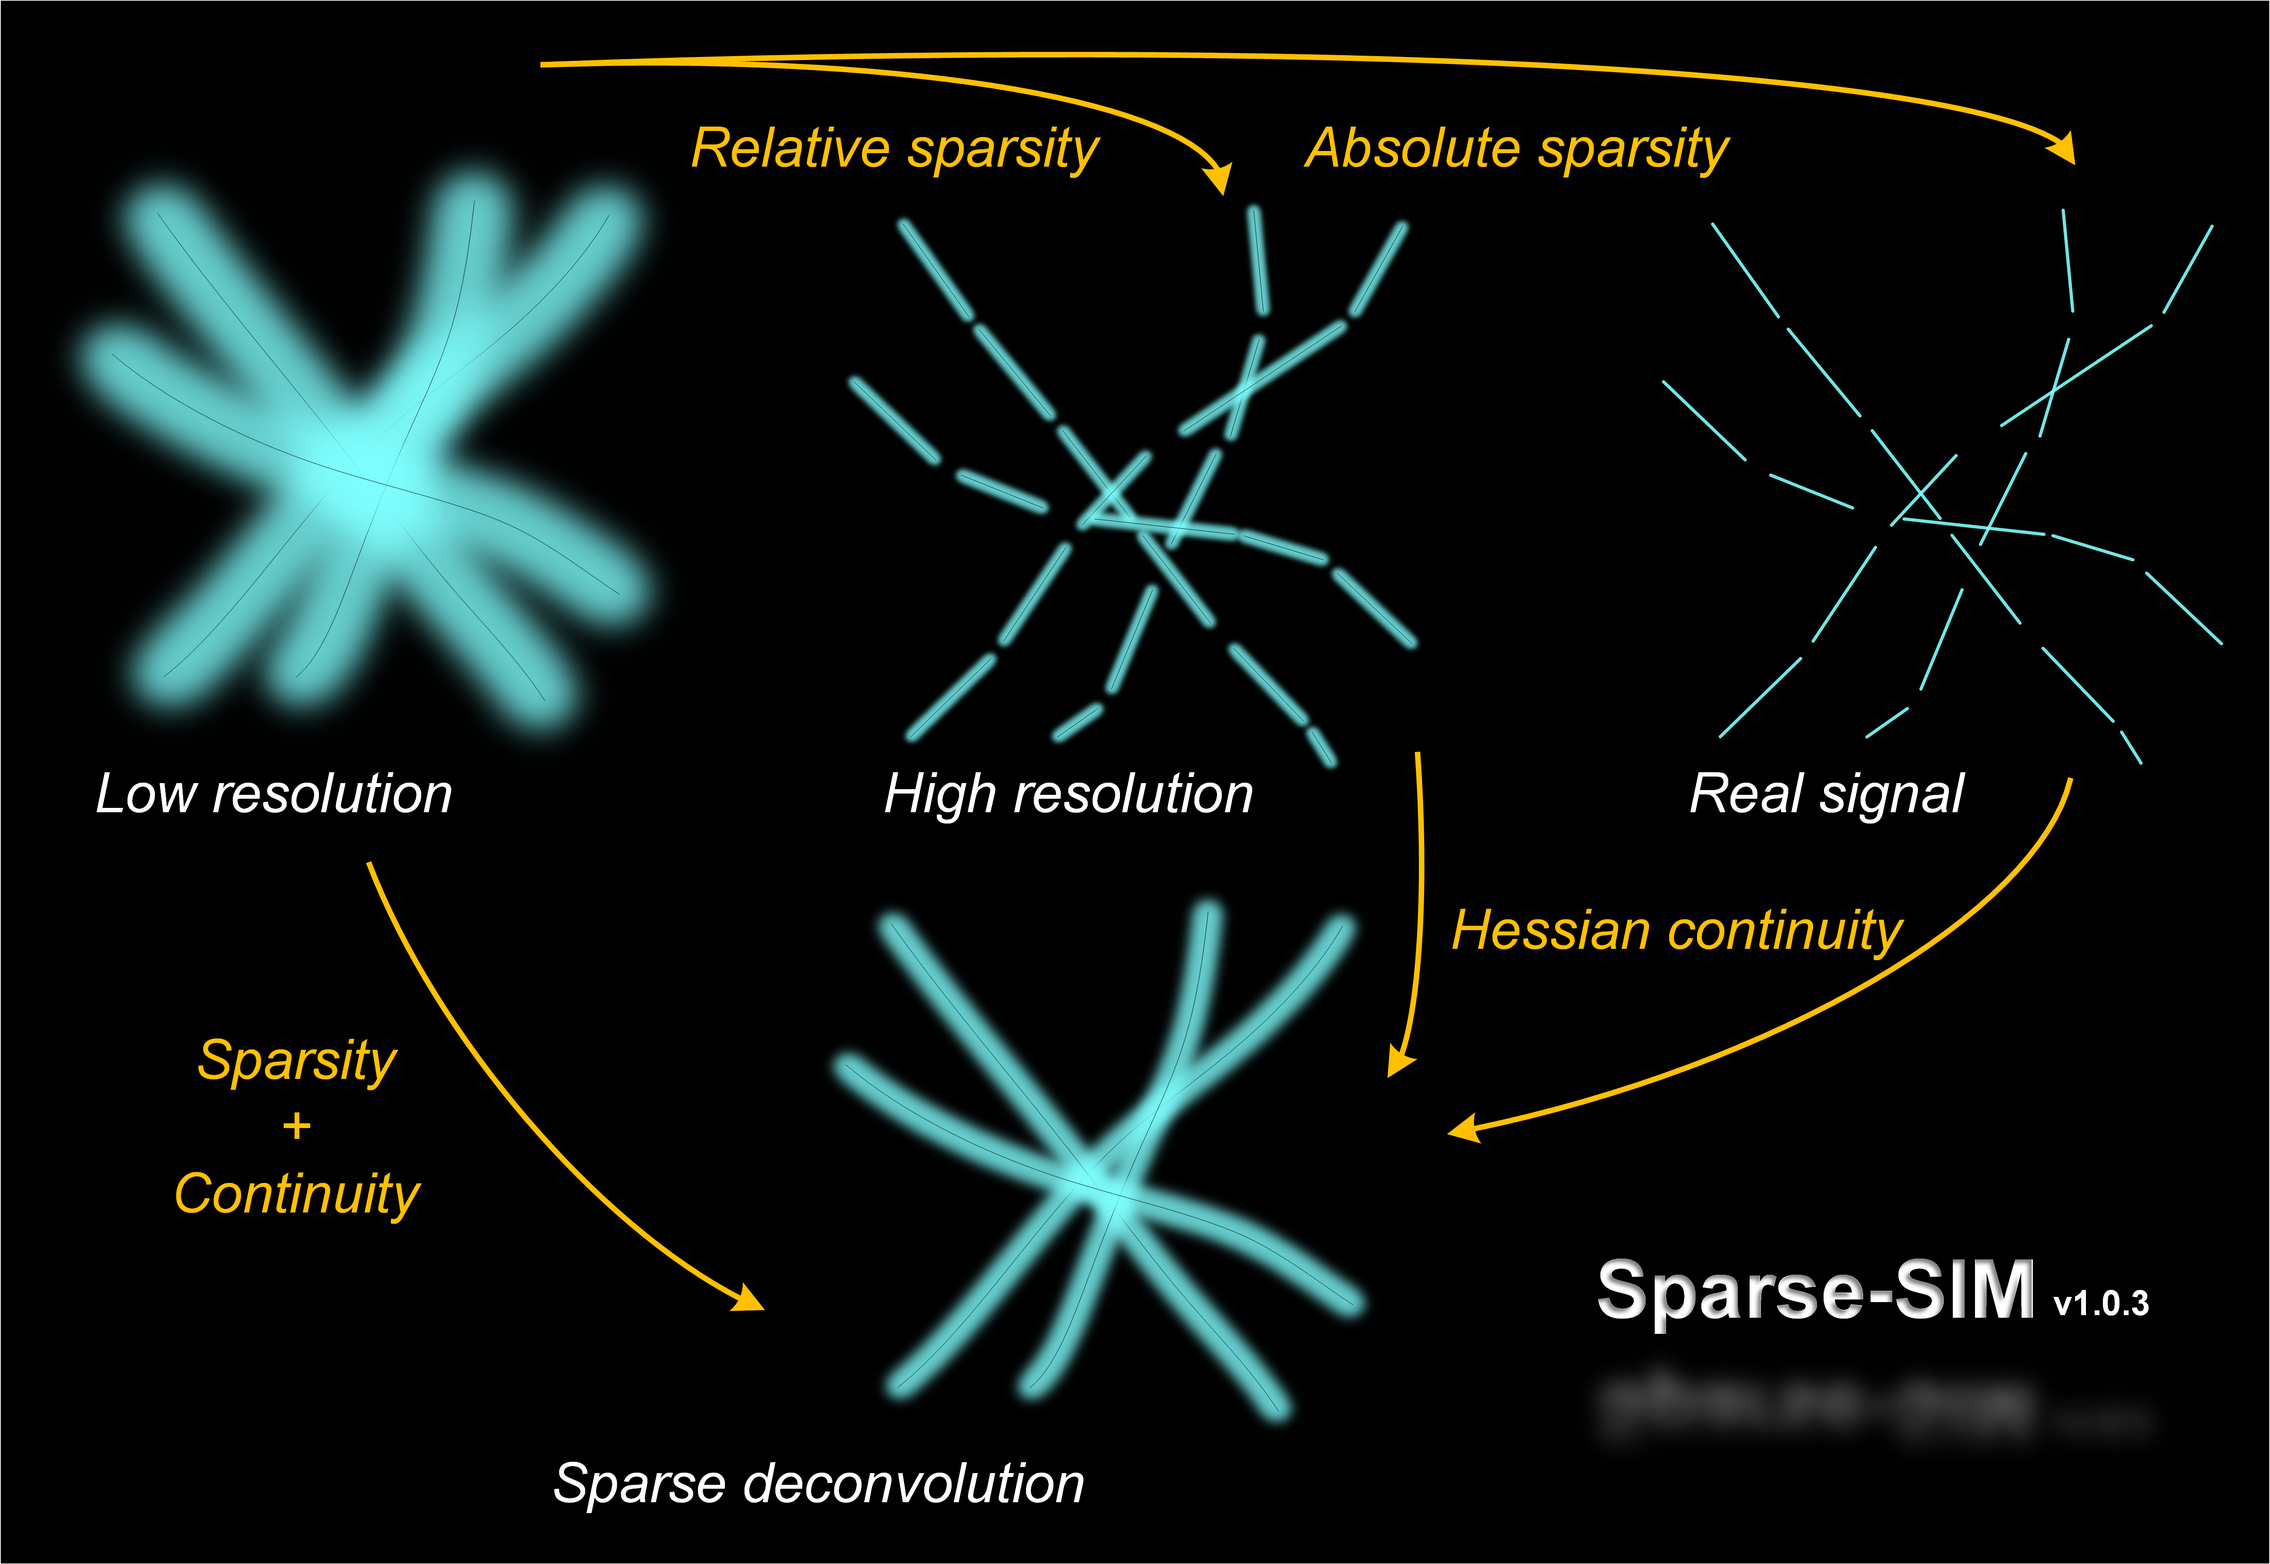
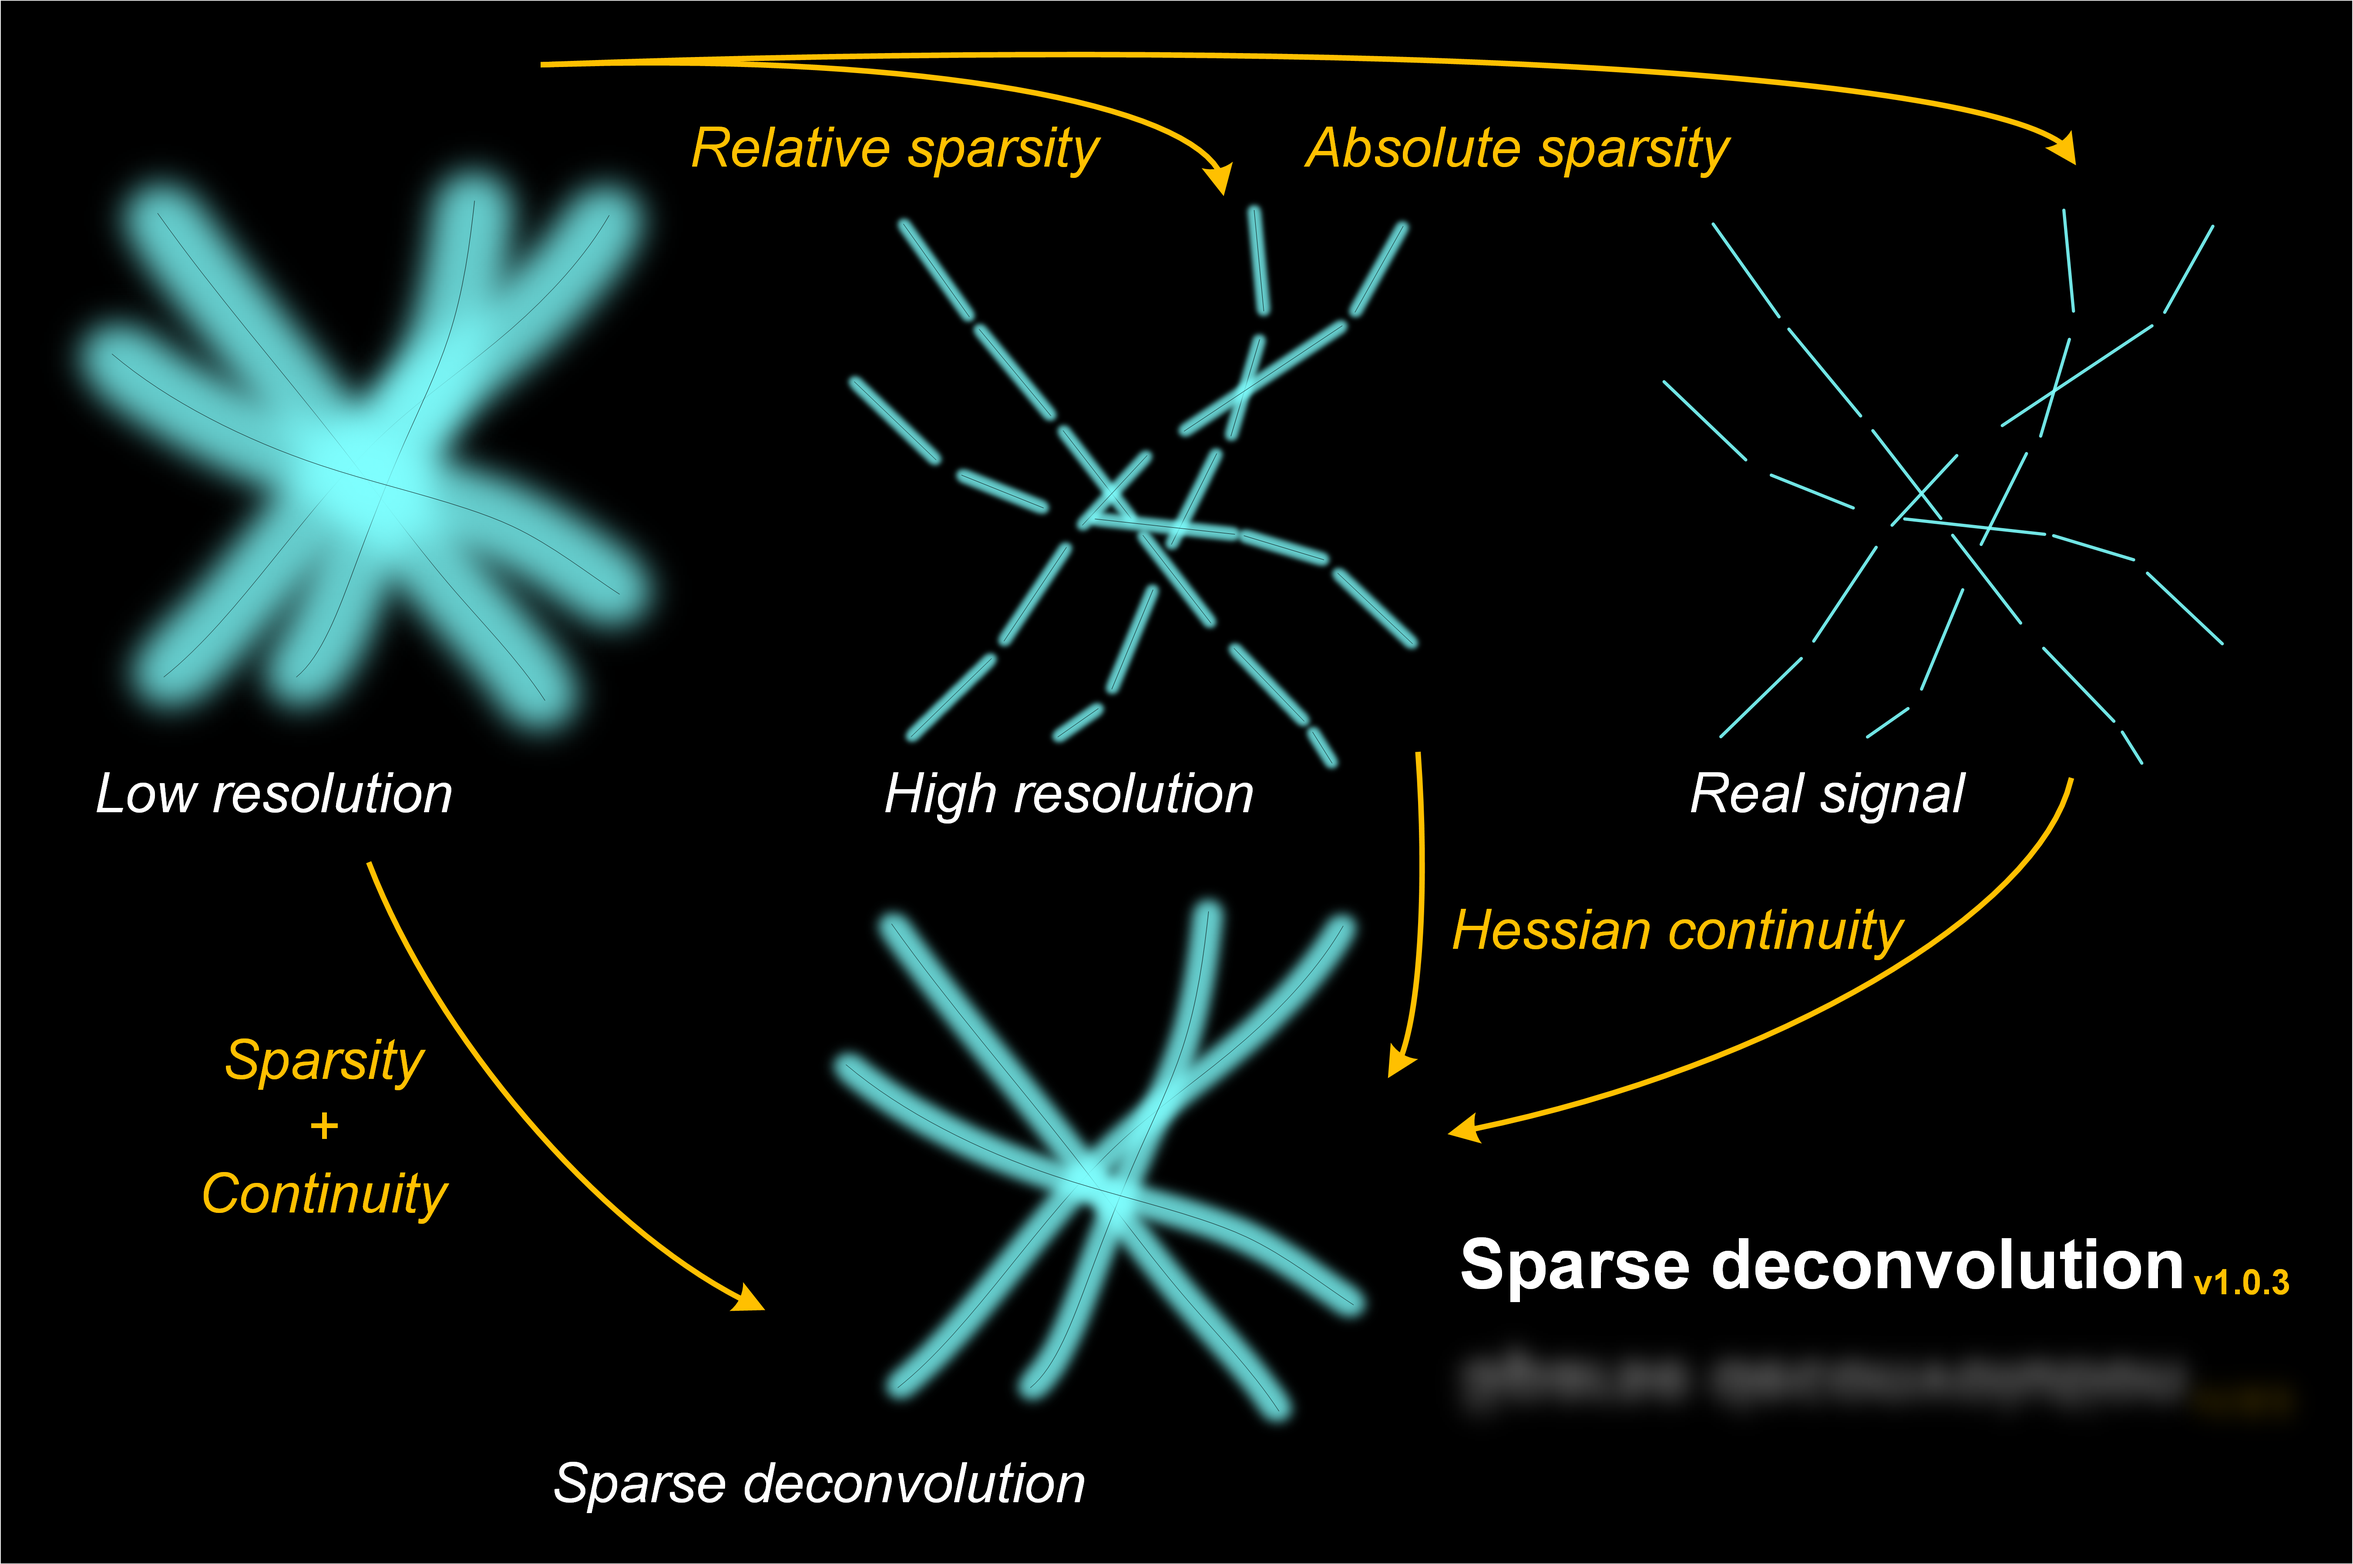
news

diff --git a/README.md b/README.md
@@ -26,6 +26,8 @@
 
 ## News (start from 2020)
 
+- 2021-11: A Python version with GPU accelartion of the <i>Sparse deconvolution</i> is released at [sparse-deconv-py](https://github.com/WeisongZhao/sparse-deconv-py);
+- 2021-11: I post a 'behind the paper' blog  about the <i>Sparse deconvolution</i> at [Nature Research Community](https://bioengineeringcommunity.nature.com/posts/physical-resolution-might-be-meaningless-if-in-the-mathmetical-space);
 - 2021-07: [PANELM](https://github.com/WeisongZhao/PANELM) and [PANELJ](https://github.com/WeisongZhao/PANELJ) are fully open-source!
 - 2021-03: An OPEN scientific discussion about deconvolution/sparse-deconvolution is posted on [GitHub](https://weisongzhao.github.io/rl_positivity_sim/) as well as on [Twitter](https://twitter.com/weisong_zhao/status/1370308101690118146);
 - 2020-11: [Sparse-SIM](https://github.com/WeisongZhao/Sparse-SIM) is fully open-source!
@@ -52,10 +54,10 @@
 </details>
 
 
-#### 5. [Sparse-SIM](https://github.com/WeisongZhao/Sparse-SIM): An universal post-processing framework for fluorescent microscopy (written in Matlab).
+#### 5. [Sparse deconvolution](https://github.com/WeisongZhao/Sparse-SIM): An universal post-processing framework for fluorescence microscopy (written in Matlab).
 
 <details>
-<summary><b>Details for Sparse-SIM</b></summary>
+<summary><b>Details for Sparse deconvolution</b></summary>
 <b>Concept:</b>
 <br>
 <p align="left">
